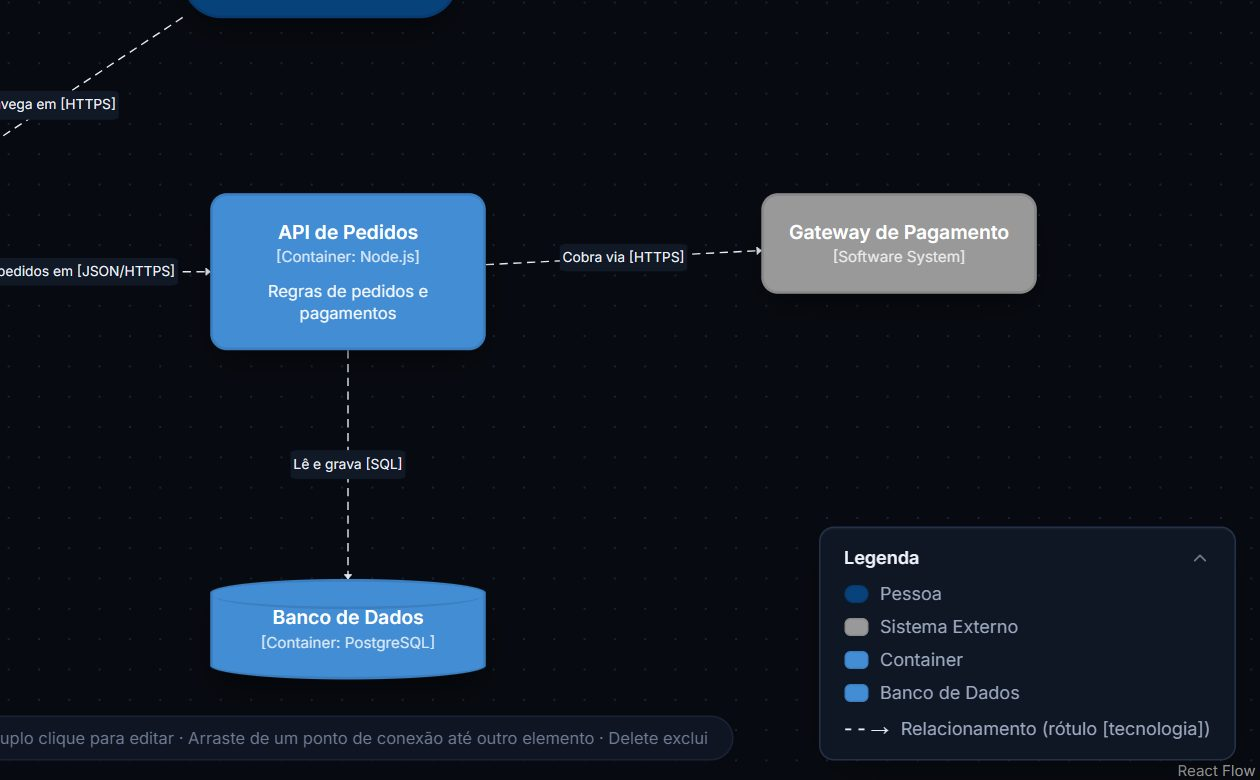
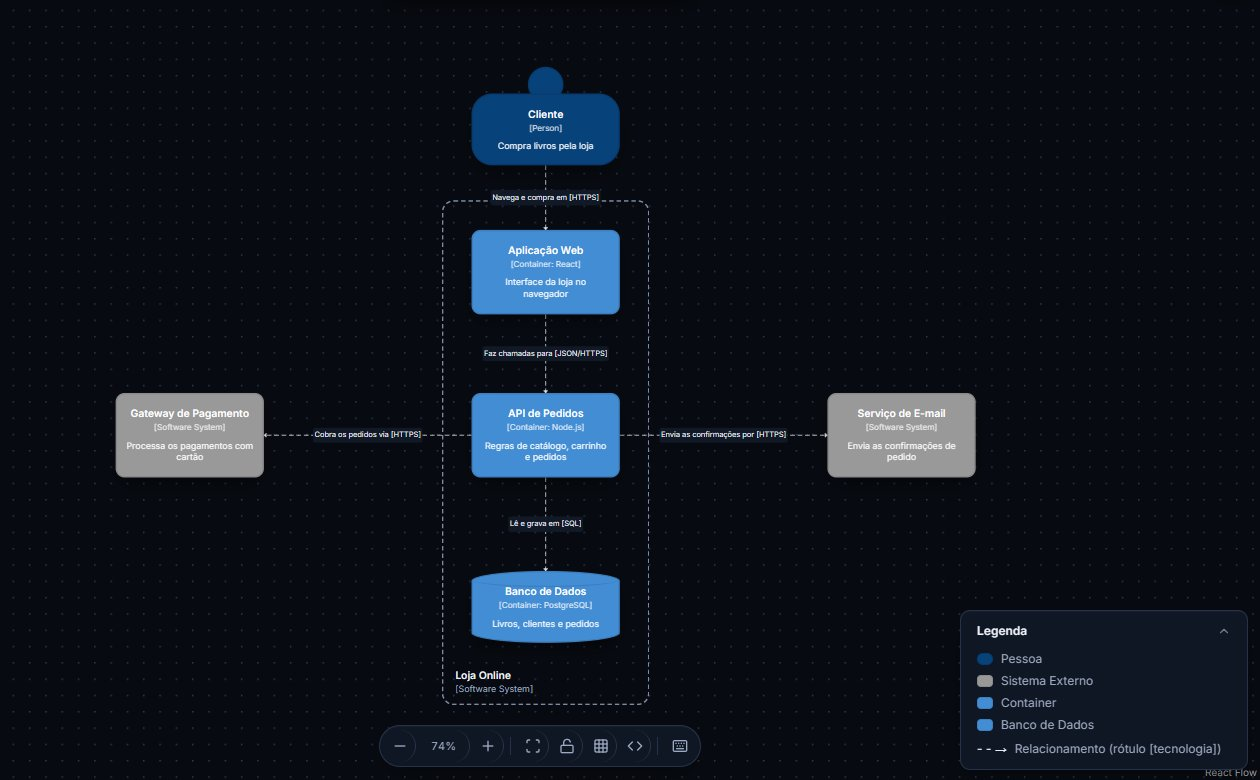
fix(home): capturas atuais do editor nas quatro funcionalidades; assistente de IA sai do 'Em breve' com sugestoes reais (#82)

diff --git a/frontend/src/pages/Home/Home.jsx b/frontend/src/pages/Home/Home.jsx
@@ -1,6 +1,6 @@
 import { Link } from 'react-router-dom';
 import { motion } from 'motion/react';
-import { ArrowRight, Check, Redo2, Save, Undo2 } from 'lucide-react';
+import { ArrowRight } from 'lucide-react';
 import { hasActiveSession } from '../../services/session';
 import Brand from '../../components/Brand/Brand';
 import { buttonClasses } from '../../components/Button/buttonStyles';
@@ -27,8 +27,23 @@ const FEATURES = [
   },
   {
     title: 'Salvo a cada alteração',
-    text: 'O diagrama é salvo automaticamente segundos depois de cada mudança. Errou? Desfaça e refaça com Ctrl+Z e Ctrl+Y.',
-    visual: 'toolbar',
+    text: 'O diagrama é salvo automaticamente segundos depois de cada mudança, e o check verde na barra confirma. Errou? Desfaça e refaça com Ctrl+Z e Ctrl+Y. Com o projeto aberto em duas abas, uma não apaga o que a outra salvou.',
+    image: {
+      src: '/screens/salvamento.jpg',
+      alt: 'Barra do editor com desfazer, refazer, o check de alterações salvas e o menu com Salvar, Compartilhar e exportações',
+      width: 940,
+      height: 420,
+    },
+  },
+  {
+    title: 'Assistente com validação e IA',
+    text: 'O assistente confere a estrutura do diagrama enquanto você modela e aponta o que corrigir. Quando quiser, peça sugestões à IA: cada uma passa pela mesma validação antes de aparecer, e nada entra no diagrama sem você.',
+    image: {
+      src: '/screens/assistente.jpg',
+      alt: 'Diagrama de containers com o assistente aberto na aba Sugestões, mostrando sugestões da IA',
+      width: 1260,
+      height: 780,
+    },
   },
 ];
 
@@ -82,35 +97,6 @@ function Screenshot({ image, className = '' }) {
 
 // Réplica nítida da barra do editor (mesmos ícones e estilos), só ilustrativa: uma captura de uma faixa tão larga
 // ficaria ilegível reduzida
-function ToolbarPreview() {
-  return (
-    <div
-      role="img"
-      aria-label="Barra do editor com desfazer, refazer e o aviso Todas as alterações salvas"
-      className="pointer-events-none flex select-none flex-wrap items-center justify-between gap-4 rounded-[var(--radius-card)] border border-line bg-canvas-deep px-6 py-8 shadow-[0_30px_60px_-30px_rgb(0_0_0/0.9)]"
-    >
-      <div className="flex items-center gap-1 rounded-[var(--radius-control)] border border-line bg-surface p-1 text-text-secondary">
-        <span className="flex h-9 w-9 items-center justify-center rounded-[var(--radius-control)] bg-surface-raised text-text-primary">
-          <Undo2 aria-hidden="true" className="h-4 w-4" />
-        </span>
-        <span className="flex h-9 w-9 items-center justify-center">
-          <Redo2 aria-hidden="true" className="h-4 w-4" />
-        </span>
-      </div>
-      <div className="flex items-center gap-4">
-        <span className="inline-flex items-center gap-1.5 text-sm text-success">
-          <Check aria-hidden="true" className="h-4 w-4" />
-          Todas as alterações salvas
-        </span>
-        <span className={buttonClasses({ size: 'sm' })}>
-          <Save aria-hidden="true" className="h-4 w-4" />
-          Salvar
-        </span>
-      </div>
-    </div>
-  );
-}
-
 // Nota: página de apresentação — mostra o produto real (capturas do editor) em vez de ilustrações e efeitos genéricos
 function Home() {
   const loggedIn = hasActiveSession();
@@ -183,19 +169,9 @@ function Home() {
                     <h3 className="text-2xl font-semibold tracking-tight text-text-primary">{feature.title}</h3>
                     <p className="mt-3 leading-relaxed text-text-secondary">{feature.text}</p>
                   </div>
-                  {feature.visual === 'toolbar' ? <ToolbarPreview /> : <Screenshot image={feature.image} />}
+                  <Screenshot image={feature.image} />
                 </Reveal>
               ))}
-
-              <Reveal className="border-t border-line pt-10">
-                <div className="flex flex-wrap items-baseline gap-3">
-                  <h3 className="text-2xl font-semibold tracking-tight text-text-primary">Assistência de IA</h3>
-                  <span className="text-sm font-medium text-highlight-text">Em breve</span>
-                </div>
-                <p className="mt-3 max-w-2xl leading-relaxed text-text-secondary">
-                  Sugestões de elementos e relações, e validação da estrutura enquanto você modela.
-                </p>
-              </Reveal>
             </div>
           </div>
         </section>

diff --git a/frontend/src/pages/Home/Home.test.jsx b/frontend/src/pages/Home/Home.test.jsx
@@ -42,7 +42,7 @@ describe('Home', () => {
     renderHome();
 
     expect(screen.getByRole('img', { name: /paleta de elementos do nível container/i })).toBeInTheDocument();
-    expect(screen.getAllByRole('img')).toHaveLength(3);
+    expect(screen.getAllByRole('img')).toHaveLength(4);
   });
 
   it('deve manter a barra de navegação fixa no topo ao rolar (sem contêiner que anule o sticky)', () => {
@@ -52,15 +52,20 @@ describe('Home', () => {
     expect(container.firstChild).not.toHaveClass('overflow-x-hidden');
   });
 
-  it('deve apresentar as funcionalidades, com a IA marcada como em breve', () => {
+  // A IA já existe (RF16): a home mostra as quatro funcionalidades com capturas reais, sem o "Em breve"
+  it('deve apresentar as quatro funcionalidades, cada uma com a captura do editor', () => {
     renderHome();
 
-    ['Os elementos certos em cada nível', 'Notação C4 oficial, com legenda', 'Salvo a cada alteração', 'Assistência de IA'].forEach(
-      (name) => {
-        expect(screen.getByRole('heading', { name })).toBeInTheDocument();
-      }
-    );
-    expect(screen.getByText('Em breve')).toBeInTheDocument();
+    [
+      ['Os elementos certos em cada nível', '/screens/paleta.jpg'],
+      ['Notação C4 oficial, com legenda', '/screens/notacao.jpg'],
+      ['Salvo a cada alteração', '/screens/salvamento.jpg'],
+      ['Assistente com validação e IA', '/screens/assistente.jpg'],
+    ].forEach(([name, src]) => {
+      expect(screen.getByRole('heading', { name })).toBeInTheDocument();
+      expect(document.querySelector(`img[src="${src}"]`)).toBeInTheDocument();
+    });
+    expect(screen.queryByText('Em breve')).not.toBeInTheDocument();
   });
 
   it('deve explicar como funciona, em três passos, com atalho a partir do topo', () => {
